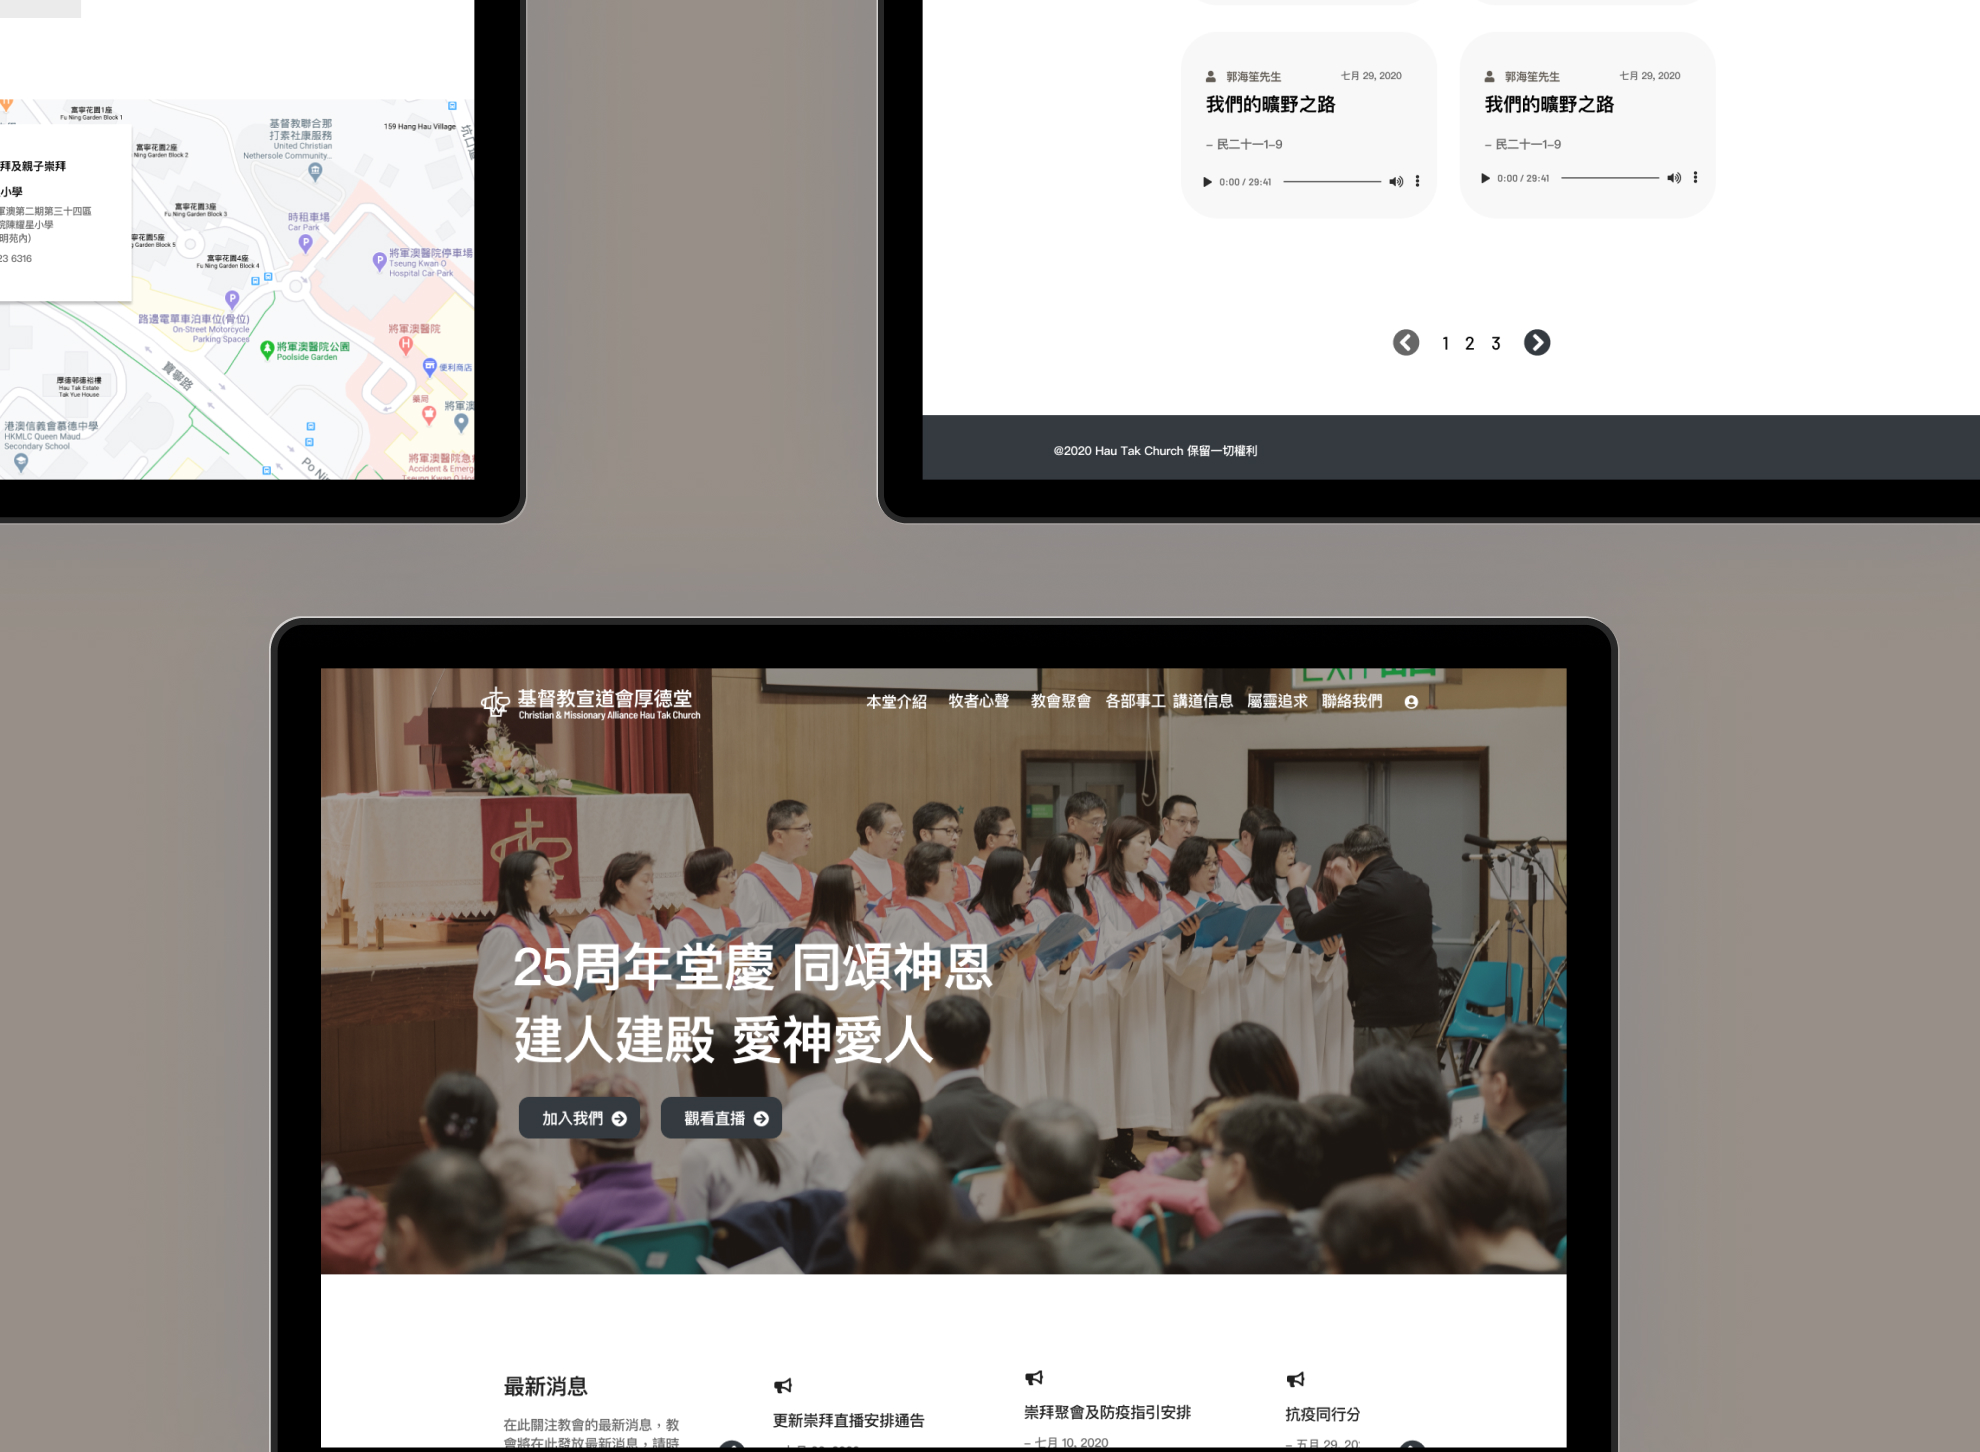
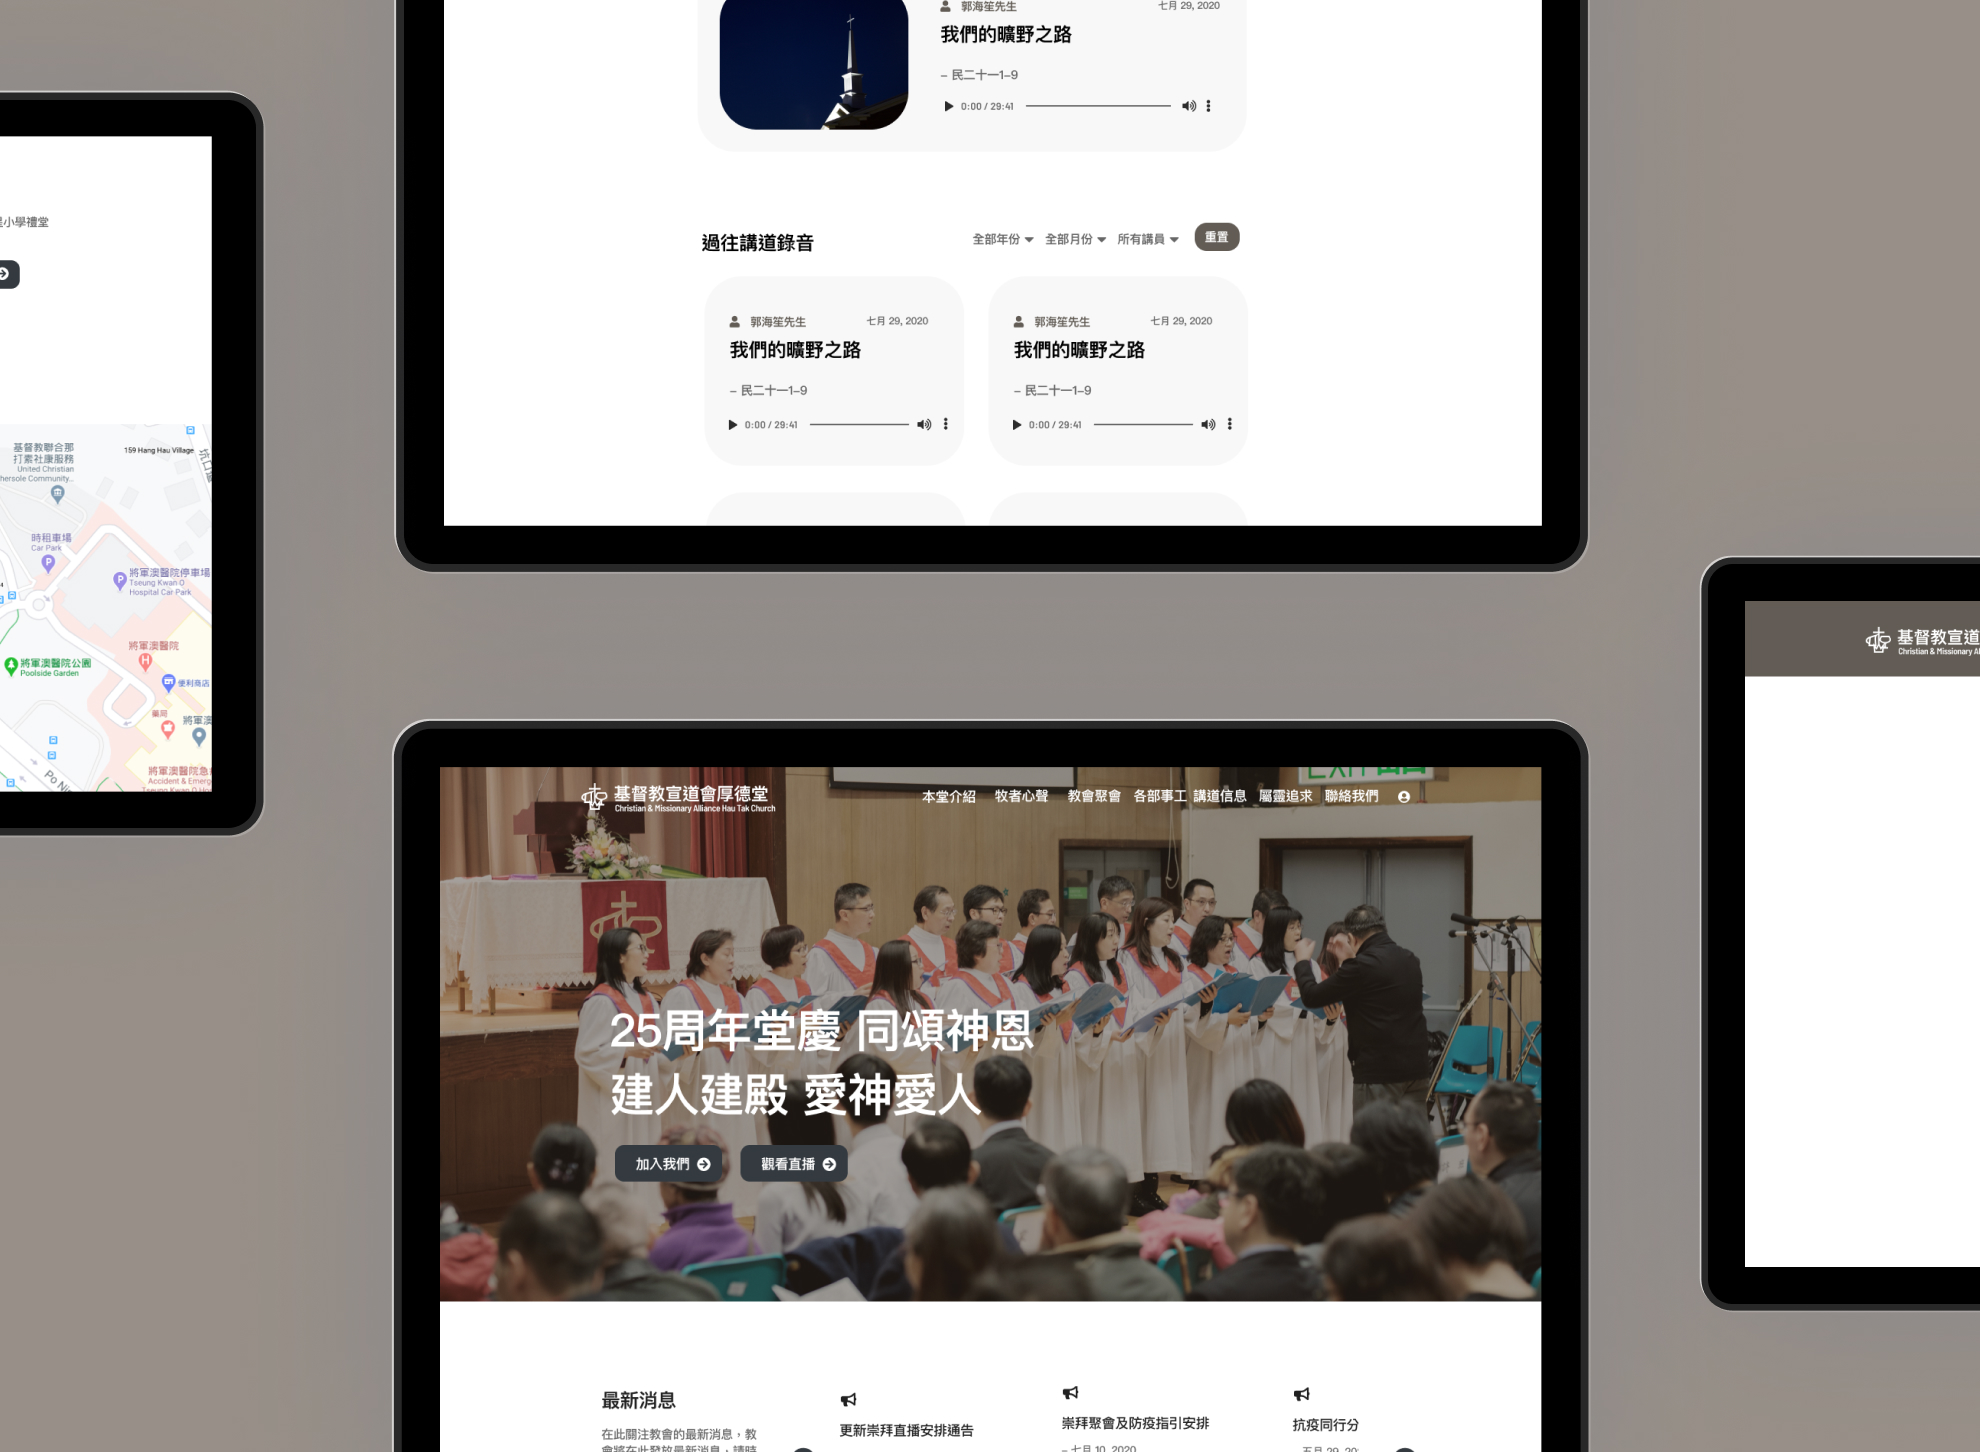
feat: work page for hautakchurch

diff --git a/src/pages/home/works/Hautakchurch.js b/src/pages/home/works/Hautakchurch.js
@@ -1,0 +1,142 @@
+import React from "react";
+
+import { motion } from "framer-motion";
+
+import Button from "../../../components/Button";
+
+import featureHautakchurch from "../../../assets/img/feature-hautakchurch.jpg";
+import workHautakchurch1 from "../../../assets/img/work-hautakchurch-1.jpg";
+
+const Hautakchurch = () => {
+  const textIn = {
+    initial: {
+      y: 100,
+    },
+    animate: {
+      y: 0,
+      transition: {
+        duration: 0.5,
+        ease: "backOut",
+      },
+    },
+    exit: {
+      opacity: 0,
+    },
+  };
+  return (
+    <motion.div
+      initial={"initial"}
+      animate={"animate"}
+      exit={"exit"}
+      className="work-page custom-container"
+    >
+      <div className="overflow-wrapper">
+        <motion.img
+          variants={textIn}
+          className="work-page__feature-img"
+          src={featureHautakchurch}
+          alt="feature-hautakchurch"
+        />
+      </div>
+      <div className="work-page__content">
+        <div className="overflow-wrapper">
+          <motion.h1 variants={textIn} className="work-page__title">
+            Hau Tak Church Web
+          </motion.h1>
+        </div>
+        <div className="overflow-wrapper">
+          <motion.div variants={textIn} className="section-block">
+            <h3 className="work-page__date">Jul 2020 - Sep 2020</h3>
+            <div className="work-page__overview">
+              <p className="work-page__p">
+                Hau Tak Church website was built with Wordpress as CMS. This is
+                a custom theme for hautakchurch.org as you may curious about,
+                and is developed by using underscores as starter theme.
+              </p>
+            </div>
+            <a
+              className="work-page__links"
+              target="_blank"
+              rel="noreferrer"
+              href="https://hautakchurch.org/wordpress"
+            >
+              <Button text="View work" />
+            </a>
+            <a
+              className="work-page__links"
+              target="_blank"
+              rel="noreferrer"
+              href="https://github.com/IamMrandrew/hautakchurch2020-wp-theme"
+            >
+              <Button text="View GitHub" />
+            </a>
+          </motion.div>
+        </div>
+        <div className="work-page__para">
+          <h2 className="work-page__subtitle">Features</h2>
+          <p className="work-page__p">
+            Modern & clean webpage design
+            <br />
+            Custom post type for more customization <br />
+            Custom animated header (navigation bar)
+            <br />
+            Customize function.php <br />
+            Multi-pages templates
+          </p>
+        </div>
+        <div className="work-page__para">
+          <h2 className="work-page__subtitle">Webpage Design</h2>
+          <p className="work-page__p">
+            The website has been rebuilt for many times. It was just a dynamic
+            website with PHP as backend hosted with Synology server. If user
+            want to edit the content, they have to access to the database
+            directly. Also, the design is very old and it is not even
+            responsive.
+          </p>
+          <p className="work-page__p">
+            Recently, I planned to rebuild this site into a wordpress based
+            site. The reason why I decided to make this decision is because
+            using wordpress as CMS provide better user-experience for admin who
+            have to constantly update the content.
+          </p>
+          <p className="work-page__p">
+            The approach is start is to create a custom theme from Underscores.
+            Also, I would like to make some changes on the design and the
+            styling of the content to make the site more attractive.
+          </p>
+        </div>
+        <img
+          className="work-page__img"
+          src={workHautakchurch1}
+          alt="work-hautakchurch-1"
+        />
+        <div className="work-page__para">
+          <h2 className="work-page__subtitle">Content Management System</h2>
+          <p className="work-page__p">
+            As this project targets the needed of the church, which required to
+            upload audios and edit notices frequency. I chose wordpress as the
+            CMS while develop my own theme for fully customization.
+          </p>
+          <p className="work-page__p">
+            Moreover, for the audio recordings. I created a custom post type for
+            it with customized metadata. This allowed the user the upload the
+            recordings which fit in into the recordings componenets template
+            that I designed. Same for the events, activities and documents,.
+          </p>
+        </div>
+        <div className="work-page__para">
+          <h3 className="work-page__bold">Adding hooks for custom post type</h3>
+          <h3 className="work-page__bold">
+            Adding hooks for custom post type metadata
+          </h3>
+          <p className="work-page__p">
+            There are more and more features and ideas included in this theme.
+            Feel free to explore more...
+          </p>
+        </div>
+      </div>
+    </motion.div>
+  );
+};
+
+export default Hautakchurch;

diff --git a/src/App.js b/src/App.js
@@ -10,6 +10,7 @@ import Todobubu from "./pages/home/works/Todobubu";
 import Loopa from "./pages/home/works/Loopa";
 
 import "./App.css";
+import Hautakchurch from "./pages/home/works/Hautakchurch";
 
 const App = () => {
   const location = useLocation();
@@ -24,6 +25,7 @@ const App = () => {
           <Route path="/profile/thanks" component={Thanks} />
           <Route path={"/todobubu"} component={Todobubu} />
           <Route path={"/loopa"} component={Loopa} />
+          <Route path={"/hautakchurch"} component={Hautakchurch} />
         </Switch>
       </AnimatePresence>
       <Footer />

diff --git a/src/pages/home/Works.js b/src/pages/home/Works.js
@@ -28,7 +28,7 @@ const Works = () => {
       </div>
       <div className="works__section-block">
         <Work
-          link="/todobubu"
+          link="/hautakchurch"
           src={thumbHautakchurch}
           wider={true}
           title="Hau Tak Church Web"
